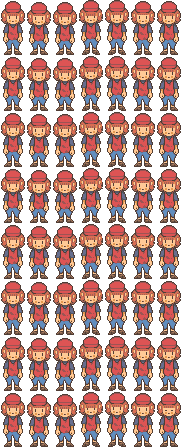
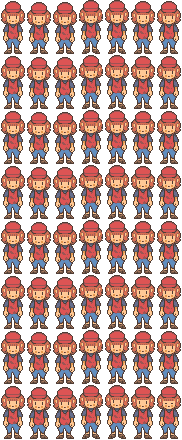
added functioning collision detection! next: directly link to movement eg physics body? or leave it as a bool function so that physics can be programmed at a designer level and collider objects could potentially have wider uses? (also updated animations)

diff --git a/_Polly.cpp b/_Polly.cpp
@@ -2,6 +2,7 @@
 #include "sprite.h"
 #include "input.h"
 #include "camera.h"
+#include "collider.h"
 
 _Polly::_Polly(game* Game, SDL_Renderer* Renderer, int SW, int SH, float Scale) : element(Game) {
 	scale = Scale;
@@ -10,10 +11,10 @@ _Polly::_Polly(game* Game, SDL_Renderer* Renderer, int SW, int SH, float Scale) 
 	setPosition(Vector2((SW / 2), (SH / 2)));
 	polly = new sprite(this, Renderer, static_cast<int>(26.0f * scale), static_cast<int>(56.0f * scale));
 	polly->setTexture("assets/art/Polly_idle_forward.png");
-	polly->setSource(0, 0, 26, 56);
+	polly->setSource(0, 0, 26, 55);
 	polly->setAnimated(
 		true,
-		Vector2(182, 448),
+		Vector2(182, 440),
 		7, 8,
 		300,
 		Vector2(0, 0),
@@ -21,6 +22,8 @@ _Polly::_Polly(game* Game, SDL_Renderer* Renderer, int SW, int SH, float Scale) 
 		Vector2(6, 7)
 	);
 	pollyCam = new camera(this);
+	pollyCollider = new collider(this, SW, SH);
+	pollyCollider->setCollisionBody(static_cast<int>(12 * scale), static_cast<int>(53 * scale));
 
 	//set controls
 	up = new input(this, SDL_SCANCODE_UP);
@@ -32,6 +35,8 @@ _Polly::_Polly(game* Game, SDL_Renderer* Renderer, int SW, int SH, float Scale) 
 }
 
 void _Polly::updateElement(float deltaTime) {
+	if (pollyCollider->detectCollision()) std::cout << "collision detected" << std::endl;
+
 	processInput(); //process user input
 	
 	position = getPosition();//get the current position
@@ -97,10 +102,10 @@ void _Polly::processInput() {
 			move = false;
 			polly->destroyTexture();
 			polly->setTexture("assets/art/Polly_idle_back.png");
-			polly->setSource(0, 0, 26, 56);
+			polly->setSource(0, 0, 26, 55);
 			polly->setAnimated(
 				true,
-				Vector2(182, 56),
+				Vector2(182, 55),
 				7, 1,
 				300,
 				Vector2(0, 0), Vector2(0, 0), Vector2(6, 0)
@@ -117,13 +122,13 @@ void _Polly::processInput() {
 			move = false;
 			polly->destroyTexture();
 			polly->setTexture("assets/art/Polly_idle_forward.png");
-			polly->setSource(0, 0, 26, 56);
+			polly->setSource(0, 0, 26, 55);
 			polly->setAnimated(
 				true,
-				Vector2(182, 56),
-				7, 1,
+				Vector2(182, 440),
+				7, 8,
 				300,
-				Vector2(0, 0), Vector2(0, 0), Vector2(6, 0)
+				Vector2(0, 0), Vector2(0, 0), Vector2(6, 7)
 			);
 		}
 		else setAnimation();
@@ -137,13 +142,13 @@ void _Polly::processInput() {
 			move = false;
 			polly->destroyTexture();
 			polly->setTexture("assets/art/Polly_idle_left.png");
-			polly->setSource(0, 0, 26, 56);
+			polly->setSource(0, 0, 26, 55);
 			polly->setAnimated(
 				true,
-				Vector2(182, 56),
-				7, 1,
+				Vector2(182, 440),
+				7, 8,
 				300,
-				Vector2(0, 0), Vector2(0, 0), Vector2(6, 0)
+				Vector2(0, 0), Vector2(0, 0), Vector2(6, 7)
 			);
 		}
 		else setAnimation();
@@ -157,13 +162,13 @@ void _Polly::processInput() {
 			move = false;
 			polly->destroyTexture();
 			polly->setTexture("assets/art/Polly_idle_right.png");
-			polly->setSource(0, 0, 26, 56);
+			polly->setSource(0, 0, 26, 55);
 			polly->setAnimated(
 				true,
-				Vector2(182, 56),
-				7, 1,
+				Vector2(182, 440),
+				7, 8,
 				300,
-				Vector2(0, 0), Vector2(0, 0), Vector2(6, 0)
+				Vector2(0, 0), Vector2(0, 0), Vector2(6, 7)
 			);
 		}
 		else setAnimation();
@@ -175,10 +180,10 @@ void _Polly::setAnimation() {
 	case Up:
 		polly->destroyTexture();
 		polly->setTexture("assets/art/Polly_walk_back.png");
-		polly->setSource(0, 0, 26, 56);
+		polly->setSource(0, 0, 26, 55);
 		polly->setAnimated(
 			true,
-			Vector2(156, 56),
+			Vector2(156, 55),
 			6, 1,
 			350,
 			Vector2(0, 0), Vector2(0, 0), Vector2(5, 0)
@@ -199,7 +204,7 @@ void _Polly::setAnimation() {
 	case Left:
 		polly->destroyTexture();
 		polly->setTexture("assets/art/Polly_walk_left.png");
-		polly->setSource(0, 0, 26, 56);
+		polly->setSource(0, 0, 26, 55);
 		polly->setAnimated(
 			true,
 			Vector2(156, 55),
@@ -211,7 +216,7 @@ void _Polly::setAnimation() {
 	case Right:
 		polly->destroyTexture();
 		polly->setTexture("assets/art/Polly_walk_right.png");
-		polly->setSource(0, 0, 26, 56);
+		polly->setSource(0, 0, 26, 55);
 		polly->setAnimated(
 			true,
 			Vector2(156, 55),

diff --git a/collider.cpp b/collider.cpp
@@ -1,18 +1,76 @@
 #include "collider.h"
 
-collider::collider(element* Owner, std::string elementName) : component(Owner) {
+collider::collider(element* Owner, int SW, int SH) : component(Owner) {
+	owner = Owner;
+	screenWidth = SW;
+	screenHeight = SH;
+	center = owner->getPosition();
+	collisionRect = new SDL_Rect;
 
+	localRect = new SDL_Rect;
+	localRect->x = center.x - (screenWidth / 2);
+	localRect->y = center.y - (screenHeight / 2);
+	localRect->w = screenWidth;
+	localRect->h = screenHeight;
+
+	scanWide = true;
+
+	owner->getGame()->addCollider(this);
 }
 
 collider::~collider() {
+	owner->getGame()->removeCollider(this);
+}
 
+void collider::setCollisionBody(int width, int height, Vector2 OffCenterPosition) {
+	offCenterPosition = OffCenterPosition;
+	collisionRect->x = center.x - (width / 2) - offCenterPosition.x;
+	collisionRect->y = center.y - (height / 2) - offCenterPosition.y;
+	collisionRect->w = width;
+	collisionRect->h = height;
+}
+
+void collider::update(float deltaTime) {
+	center = owner->getPosition();
+	collisionRect->x = center.x - (collisionRect->w / 2) - offCenterPosition.x;
+	collisionRect->y = center.y - (collisionRect->h / 2) - offCenterPosition.y;
+	//check to see if object has reached the bounds of the local rect
+	if ((center.x - (collisionRect->w / 2)) <= localRect->x || 
+		(center.x + (collisionRect->w / 2)) >= (localRect->x + localRect->w) || 
+		(center.y - (collisionRect->h / 2)) <= localRect->y || 
+		(center.y + (collisionRect->h / 2)) >= (localRect->y + localRect->h)) {
+		scanWide = true; //set to rescan local area
+		localRect->x = center.x - (screenWidth / 2); //update local rect x-position
+		localRect->y = center.y - (screenHeight / 2); //update local rect y-position
+	}
 }
 
 void collider::checkCollisionWide() {
-
+	//removes self from scene list of all collision objects
+	owner->getGame()->removeCollider(this);
+	//clear list of local colliders
+	localColliders.clear();
+	//iterates thru list of all collision objects to determine which objects are close enough to be considered local
+	for (auto rect : owner->getGame()->getColliders()) {
+		if (SDL_HasIntersection(localRect, rect->getCollisionBodyRect())) {
+			localColliders.emplace_back(rect);//place collision object in list of local colliders
+			std::cout << "rect detected at: " << rect->center.x << ", " << rect->center.y << std::endl;
+		}
+	}
+	owner->getGame()->addCollider(this);//replace self into list of all collision objects
+	scanWide = false;
 }
 
-void collider::checkCollisionLocal() {
-
+bool collider::checkCollisionLocal() {
+	for (auto rect : localColliders) {
+		if (SDL_HasIntersection(collisionRect, rect->getCollisionBodyRect())) {
+			return true;
+		}
+	}
+	return false;
 }
 
+bool collider::detectCollision() {
+	if (scanWide) checkCollisionWide();
+	return checkCollisionLocal();
+}

diff --git a/test_area.cpp b/test_area.cpp
@@ -3,6 +3,7 @@
 #include "input.h"
 #include "element.h"
 #include "sprite.h"
+#include "collider.h"
 
 test_area::test_area(game* Game, SDL_Renderer* Renderer, int SW, int SH, float Scale) : scene(Game) {
 	renderer = Renderer;
@@ -15,6 +16,10 @@ test_area::test_area(game* Game, SDL_Renderer* Renderer, int SW, int SH, float S
 	background = nullptr;
 	exit = nullptr;
 
+	Test = nullptr;
+	test = nullptr;
+	testBody = nullptr;
+
 	load();
 }
 
@@ -25,6 +30,13 @@ void test_area::load() {
 	background = new sprite(Background, renderer, static_cast<int>(480.0f * scale), static_cast<int>(480.0f * scale), 0);
 	background->setTexture("assets/art/background.png");
 	exit = new input(polly, SDL_SCANCODE_RETURN);
+
+	Test = new element(sGame);
+	Test->setPosition(Vector2(100, -200));
+	test = new sprite(Test, renderer, static_cast<int>(48.0f * scale), static_cast<int>(49.0f * scale), 1);
+	test->setTexture("assets/art/dough_stack.png");
+	testBody = new collider(Test, screenWidth, screenHeight);
+	testBody->setCollisionBody(static_cast<int>(48.0f * scale), static_cast<int>(49.0f * scale));
 }
 
 void test_area::update(float deltaTime) {

diff --git a/collider.h b/collider.h
@@ -5,14 +5,13 @@ class collider :
     public component
 {
 public:
-    collider(element* Owner, std::string elementName);
+    collider(element* Owner, int SW, int SH);
     ~collider();
-
+    void update(float deltaTime) override;
     void checkCollisionWide();
-    void checkCollisionLocal();
+    bool checkCollisionLocal();
 
-    void setCollisionBody(int Width, int Height);
-    void setCollisionBodyLocation(Vector2 Center_Position);
+    void setCollisionBody(int Width, int Height, Vector2 OffCenterPosition = Vector2(0, 0));
     SDL_Rect* getCollisionBodyRect() { return collisionRect; }
     
     bool detectCollision();
@@ -22,10 +21,11 @@ private:
     SDL_Rect* localRect;
     SDL_Rect* collisionRect;
     Vector2 center;
+    Vector2 offCenterPosition;
+    bool scanWide;
     
-    bool collision;
-    int scale;
-    std::string tag;
+    int screenWidth;
+    int screenHeight;
     std::vector<collider*> localColliders;
 };
 

diff --git a/title.cpp b/title.cpp
@@ -33,7 +33,7 @@ void title::load() {
 
 	for (int i = 0; i < 2; i++) {
 		element* Pizza = new element(sGame);
-		Pizza->setPosition(Vector2(0, ((300 * scale) / 2) - (i * (300 * scale))));
+		Pizza->setPosition(Vector2(0, static_cast<int>(((300 * scale) / 2) - (i * (300 * scale)))));
 		sprite* pizza = new sprite(Pizza, renderer, static_cast<int>(1651.0f * scale), static_cast<int>(300.0f * scale), 0);
 		pizza->setTexture("assets/art/pizza_bckgnd.png");
 		pizzas.emplace_back(Pizza);
@@ -80,7 +80,7 @@ void title::update(float deltaTime) {
 		position.x += static_cast<int>(19.0f * scale * deltaTime);
 		position.y += static_cast<int>(19.0f * scale * deltaTime);
 		if (position.y > 450 * scale) {
-			slice->setPosition(Vector2(0, 0 - (150 * scale)));
+			slice->setPosition(Vector2(0, static_cast<int>(0 - (150 * scale))));
 		}
 		else slice->setPosition(position);
 	}

diff --git a/game.h b/game.h
@@ -58,6 +58,8 @@ public:
 	scene_type getScene() { return sceneTag; }
 	//set a new value for active scene
 	void setScene(scene_type Scene) { sceneTag = Scene; }
+	//gets colliders vector
+	std::vector<class collider*> getColliders() { return colliders; }
 	//gets the camera rect
 	SDL_Rect* getCamera() { return Camera; }
 	//sets camera x and y positions
@@ -77,7 +79,7 @@ private:
 	//user screen resolution y
 	int y = GetSystemMetrics(SM_CYFULLSCREEN);
 
-	//begin process for user input
+	//process user input
 	void processInput();
 	//update all elements in game
 	void update();

diff --git a/_Polly.h b/_Polly.h
@@ -24,6 +24,7 @@ public:
 private:
     class sprite* polly;
     class camera* pollyCam;
+    class collider* pollyCollider;
 
     Vector2 position;
     std::vector<Direction> directions;

diff --git a/test_area.h b/test_area.h
@@ -20,6 +20,8 @@ private:
     class sprite* background;
     class input* exit;
 
-
+    class element* Test;
+    class sprite* test;
+    class collider* testBody;
 };
 

diff --git a/game.cpp b/game.cpp
@@ -58,7 +58,7 @@ bool game::init() {
 		45,
 		screenWidth,
 		screenHeight,
-		SDL_WINDOW_FULLSCREEN_DESKTOP
+		0//SDL_WINDOW_FULLSCREEN_DESKTOP
 	);
 
 	if (!window) {
